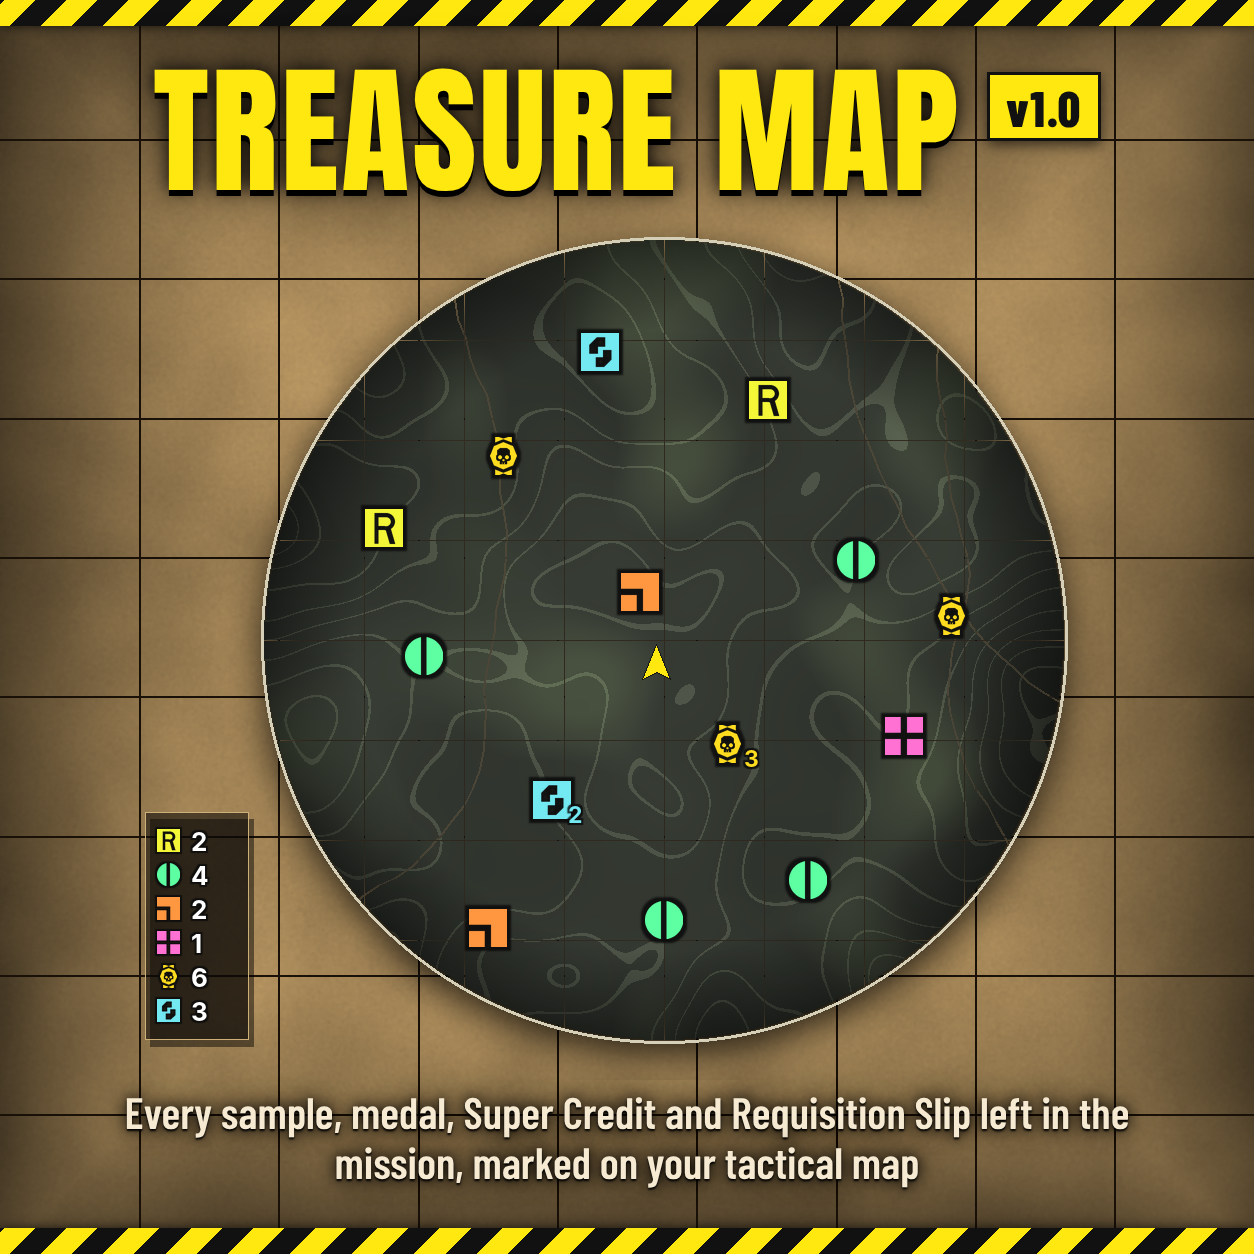
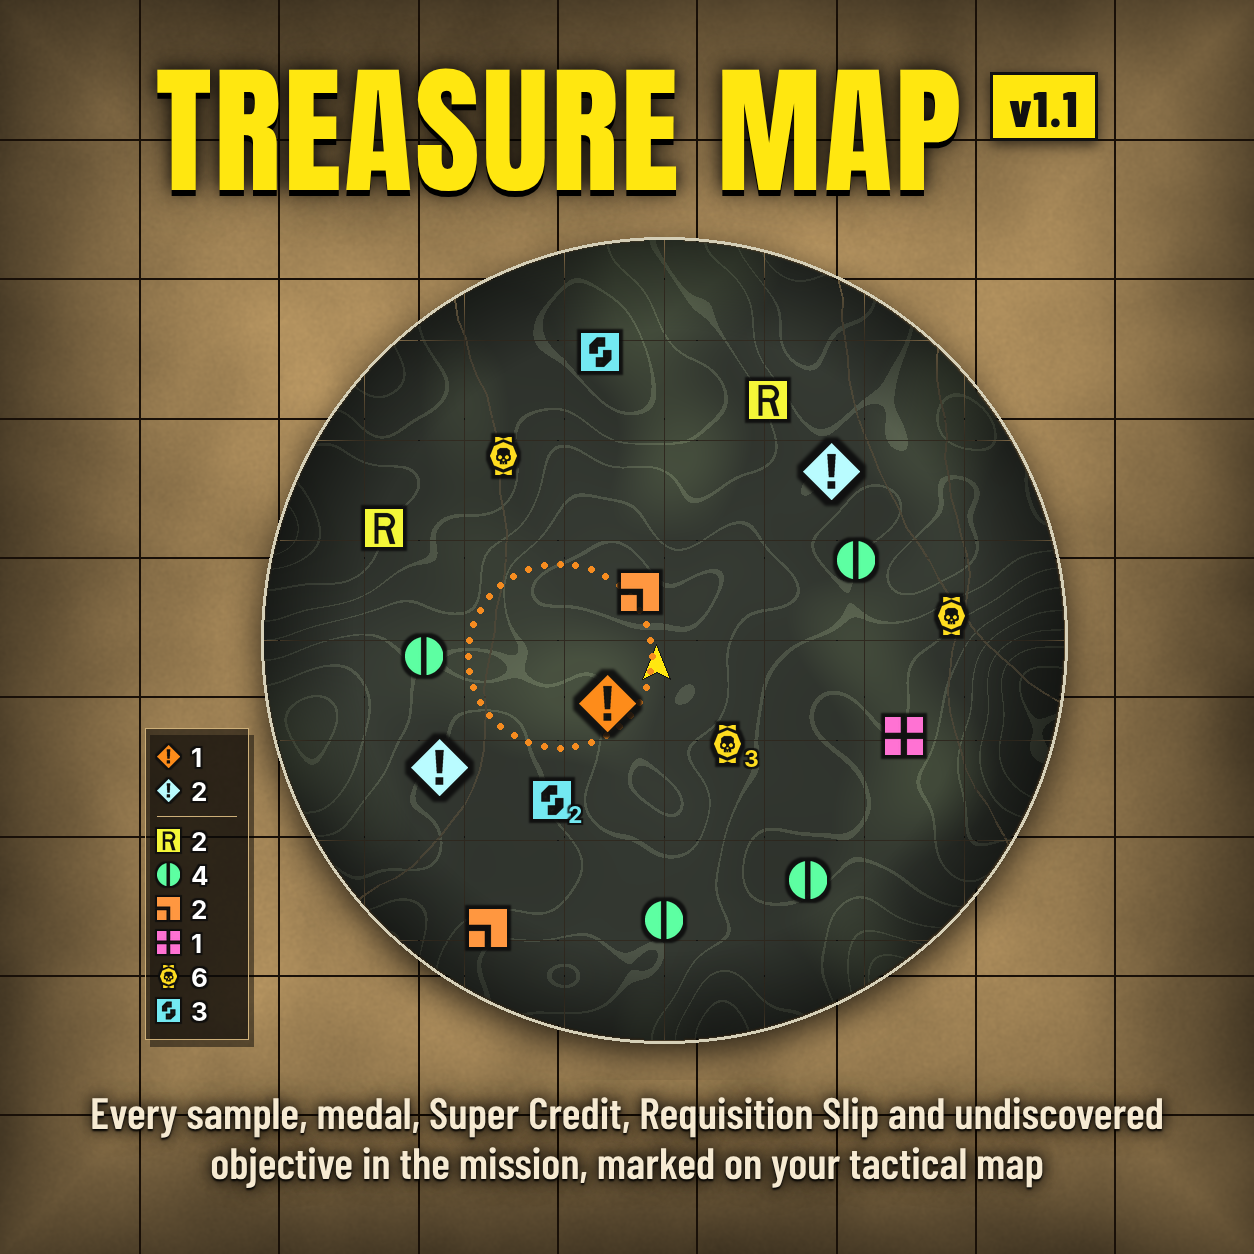
1.1.0: art scripts (objectives, ledger divider, AyakaMods cover) and the Arsenal thumbnail

diff --git a/src/artwork/cards.py b/src/artwork/cards.py
@@ -1,5 +1,5 @@
 """Treasure Map release art: thumbnail (1254x1254), gallery photo (1920x1080), header (1300x372) and the GitHub social
-preview (1280x640). The scene comes from hero.py; the title, version badge and text are HTML rendered with Playwright
+preview (1280x640) and the AyakaMods cover (1600x1000, fits the site's mod cards). The scene comes from hero.py; the title, version badge and text are HTML rendered with Playwright
 Chromium (Anton + Barlow Condensed in fonts/, SIL Open Font License, from @fontsource).
 python cards.py <out dir> [version badge, e.g. 1.0]"""
 import base64, io, os, sys
@@ -11,8 +11,8 @@ FONTS = {'Anton': 'fonts/anton-latin-400-normal.woff2',
          'Barlow Condensed': 'fonts/barlow-condensed-latin-600-normal.woff2',
          'Barlow Condensed B': 'fonts/barlow-condensed-latin-800-normal.woff2'}
 
-TAGLINE = 'Every sample, medal, Super Credit and Requisition Slip left in the mission, marked on your tactical map'
-FEATURES = ['6 OPTIONS', 'STACK COUNTS', 'LOOT LEDGER', 'OPACITY SLIDERS']
+TAGLINE = 'Every sample, medal, Super Credit, Requisition Slip and undiscovered objective in the mission, marked on your tactical map'
+FEATURES = ['OBJECTIVES', 'POOR INTEL', 'STACK COUNTS', 'LOOT LEDGER', 'OPACITY SLIDERS']
 
 
 def b64(path_or_img):
@@ -41,8 +41,6 @@ body { width:%(W)dpx; height:%(H)dpx; overflow:hidden; background:#000; position
 .feat { font-family:'Barlow Condensed B'; color:#111; display:flex; flex-wrap:wrap; gap:0.35em; }
 .feat span { background:rgba(255,231,16,.95); padding:0.06em 0.4em 0.02em; border:0.05em solid #111; letter-spacing:0.04em;
   box-shadow:0 0.06em 0.2em rgba(0,0,0,.55); }
-.stripe { position:absolute; left:0; right:0; background:repeating-linear-gradient(-45deg,#ffe710 0 22px,#111 22px 44px);
-  box-shadow:0 0 12px rgba(0,0,0,.7); }
 .plate { position:absolute; background:linear-gradient(rgba(10,9,7,.82),rgba(10,9,7,.74)); border:3px solid #ffe710;
   box-shadow:0 8px 30px rgba(0,0,0,.6); }
 """
@@ -70,8 +68,7 @@ def main():
     W = H = 1254
     bg = hero.hero(W, H, 664, 640, 400, seed=7)
     jobs.append(('thumbnail.png', W, H, bg, """
-      <div class="stripe" style="top:0;height:26px"></div><div class="stripe" style="bottom:0;height:26px"></div>
-      <div style="position:absolute;left:0;right:0;top:64px;display:flex;justify-content:center;align-items:flex-start;gap:26px">
+            <div style="position:absolute;left:0;right:0;top:64px;display:flex;justify-content:center;align-items:flex-start;gap:26px">
         <div class="title" style="font-size:140px;white-space:nowrap">Treasure Map</div>
         <span class="badge" style="font-size:50px;margin-top:8px">v%(v)s</span>
       </div>
@@ -82,8 +79,7 @@ def main():
     W, H = 1920, 1080
     bg = hero.hero(W, H, 1290, 560, 430, seed=11)
     jobs.append(('gallery_1920x1080.png', W, H, bg, """
-      <div class="stripe" style="top:0;height:24px"></div><div class="stripe" style="bottom:0;height:24px"></div>
-      <div class="plate" style="left:70px;top:150px;width:600px;padding:44px 40px 46px">
+            <div class="plate" style="left:70px;top:150px;width:600px;padding:44px 40px 46px">
         <div class="title" style="font-size:118px">Treasure<br>Map</div>
         <div style="margin:26px 0 30px"><span class="badge" style="font-size:46px">v%(v)s</span></div>
         <div class="tag" style="font-size:38px">%(t)s</div>
@@ -103,12 +99,18 @@ def main():
     W, H = 1300, 372
     bg = hero.hero(W, H, 1070, 300, 330, seed=9)
     jobs.append(('header_1300x372.png', W, H, bg, """
-      <div class="stripe" style="top:0;height:14px"></div><div class="stripe" style="bottom:0;height:14px"></div>
-      <div class="plate" style="left:44px;top:58px;width:790px;padding:30px 36px 34px">
+            <div class="plate" style="left:44px;top:58px;width:790px;padding:30px 36px 34px">
         <div style="display:flex;align-items:flex-start;gap:20px"><div class="title" style="font-size:104px;white-space:nowrap">Treasure Map</div>
           <span class="badge" style="font-size:34px;margin-top:6px">v%(v)s</span></div>
         <div class="tag" style="font-size:27px;margin-top:16px">%(t)s</div>
       </div>""" % {'v': ver, 't': TAGLINE}))
+    # AyakaMods cover 1.6:1: everything that matters inside the middle 1190x800 (the mod cards crop it to 1.2:1 .. 2:1)
+    W, H = 1600, 1000
+    bg = hero.hero(W, H, 930, 600, 290, seed=13)
+    jobs.append(('AyakaMods-Cover-1600x1000.png', W, H, bg, """
+      <div style="position:absolute;left:0;right:0;top:110px;display:flex;justify-content:center;align-items:flex-start;gap:22px">
+        <div class="title" style="font-size:112px;white-space:nowrap">Treasure Map</div>
+        <span class="badge" style="font-size:42px;margin-top:8px">v%(v)s</span></div>""" % {'v': ver}))
     with sync_playwright() as p:
         b = p.chromium.launch()
         page = b.new_page()

diff --git a/src/artwork/hero.py b/src/artwork/hero.py
@@ -11,7 +11,8 @@ import icons
 
 FONT = os.path.join(HERE, 'fonts', 'Inter-Bold.otf')   # Inter, SIL Open Font License
 RGB = {'requisition': (244, 247, 56), 'common': (93, 255, 162), 'rare': (255, 151, 64), 'super': (255, 114, 211),
-       'medal': (255, 221, 31), 'credit': (115, 233, 242)}
+       'medal': (255, 221, 31), 'credit': (115, 233, 242), 'objective': (185, 252, 255), 'main': (254, 140, 26)}
+BIG = {'objective': 1.5, 'main': 1.5}         # (1.1.0) objective markers are drawn 1.5x the loot markers, as in game
 ORDER = ['requisition', 'common', 'rare', 'super', 'medal', 'credit']
 
 
@@ -103,8 +104,13 @@ PICKUPS = [
     (0.47, 0.44, 'rare', 1), (0.58, 0.63, 'medal', 3), (0.36, 0.70, 'credit', 2), (0.80, 0.62, 'super', 1),
     (0.50, 0.85, 'common', 1), (0.15, 0.36, 'requisition', 1), (0.86, 0.47, 'medal', 1), (0.42, 0.14, 'credit', 1),
     (0.28, 0.86, 'rare', 1), (0.68, 0.80, 'common', 1),
+    # (1.1.0) undiscovered side objectives, and a Poor Intel main objective inside the area the game's map shows
+    (0.22, 0.66, 'objective', 1), (0.71, 0.29, 'objective', 1), (0.43, 0.58, 'main', 1),
 ]
-LEDGER = [('requisition', '2'), ('common', '4'), ('rare', '2'), ('super', '1'), ('medal', '6'), ('credit', '3')]
+POOR_INTEL = (0.37, 0.52, 0.115)              # the dotted area the game shows for the main objective (x, y, radius)
+# (1.1.0) the objective rows on top, then a divider, then the loot
+LEDGER = [('main', '1'), ('objective', '2'), None, ('requisition', '2'), ('common', '4'), ('rare', '2'), ('super', '1'),
+          ('medal', '6'), ('credit', '3')]
 
 
 def tactical_map(r):
@@ -139,8 +145,14 @@ def tactical_map(r):
     d.polygon([(cx, cy - s), (cx + s * 0.7, cy + s * 0.75), (cx, cy + s * 0.4), (cx - s * 0.7, cy + s * 0.75)], fill=(255, 231, 16, 255),
               outline=(20, 20, 20, 255))
     h = int(r * 0.095)
+    # the Poor Intel area: a dotted orange ring, as the game draws it
+    ax, ay, ar = POOR_INTEL
+    for k in range(36):
+        a = 2 * math.pi * k / 36
+        px, py, dr = pad + (ax + ar * math.cos(a)) * D, pad + (ay + ar * math.sin(a)) * D, max(2, r // 120)
+        d.ellipse((px - dr, py - dr, px + dr, py + dr), fill=(254, 140, 26, 230))
     for x, y, kid, n in PICKUPS:
-        g = marker(kid, h)
+        g = marker(kid, int(h * BIG.get(kid, 1)))
         px, py = pad + x * D, pad + y * D
         out.alpha_composite(g, (int(px - g.size[0] / 2), int(py - g.size[1] / 2)))
         if n > 1:
@@ -152,15 +164,26 @@ def ledger(scale):
     """The loot ledger panel as drawn in game (rows: icon + how many are left), `scale` px per game px."""
     pad, row, icon, th = 7 * scale, 19 * scale, 13 * scale, 12 * scale
     font = ImageFont.truetype(FONT, int(th * 1.25))
-    width = max(font.getbbox(t)[2] for _, t in LEDGER)
+    rows = [x for x in LEDGER if x]
+    div = 9 * scale if None in LEDGER else 0
+    width = max(font.getbbox(t)[2] for _, t in rows)
     W = int(pad * 2 + icon + 6 * scale + width + 4 * scale + icon * 0.9)
-    H = int(pad * 2 + row * len(LEDGER))
+    H = int(pad * 2 + row * len(rows) + div)
     img = Image.new('RGBA', (W, H), (14, 11, 8, 150 * 255 // 255))
     d = ImageDraw.Draw(img)
     e = max(1, int(scale))
     d.rectangle((0, 0, W - 1, H - 1), outline=(205, 175, 120, 255), width=e)
-    for i, (kid, t) in enumerate(LEDGER):
-        y = pad + row * (i + 0.5)
+    i, below = 0, 0
+    for entry in LEDGER:
+        if entry is None:
+            # the divider between the objectives and the loot
+            ly = int(pad + row * i + div / 2)
+            d.line((pad, ly, W - pad, ly), fill=(205, 175, 120, 255), width=e)
+            below = div
+            continue
+        kid, t = entry
+        y = pad + row * (i + 0.5) + below
+        i += 1
         g = marker(kid, int(icon))
         img.alpha_composite(g, (int(pad + icon / 2 - g.size[0] / 2), int(y - g.size[1] / 2)))
         outlined_text(img, (pad + icon + 6 * scale, y), t, th * 1.25, (255, 255, 255))
